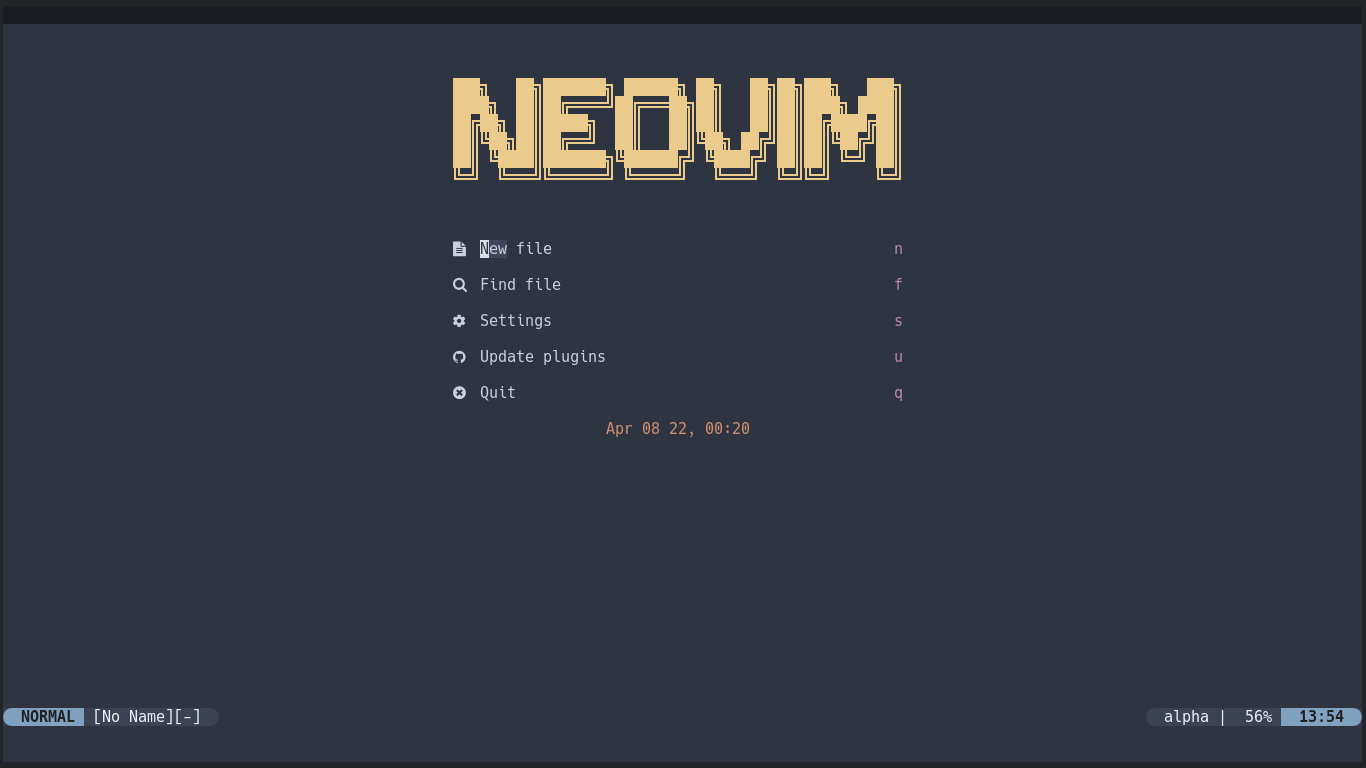
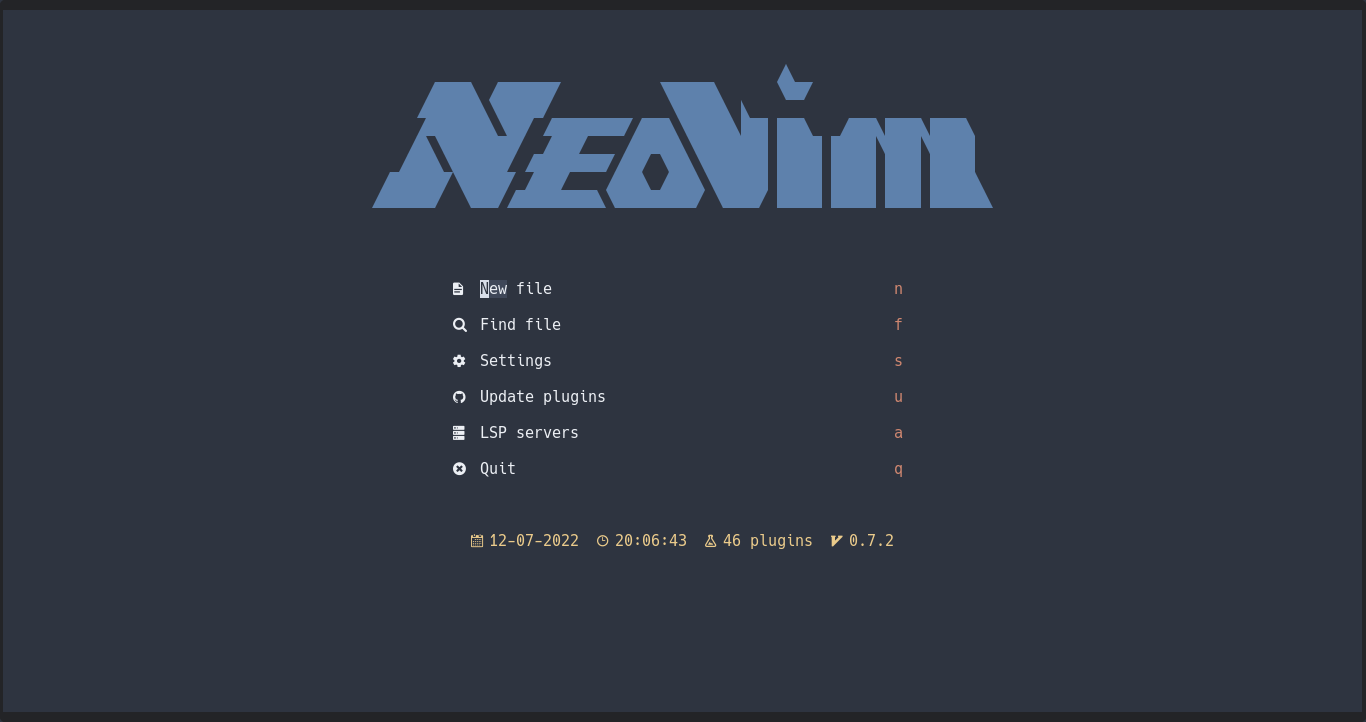
Updates neovim plugins and solves problem related to a loud beep when shutting down laptop

diff --git a/.config/nvim/.github/README.md b/.config/nvim/.github/README.md
@@ -1,4 +1,3 @@
-<h1>VS Neovim</h1>
 <p align="center">
     <img src="./screenshots/neovim-logo.png" width="60%" />
 </p>
@@ -18,6 +17,7 @@
 │   │   ├── 🌑 impatient.lua
 │   │   ├── 🌑 indent-blankline.lua
 │   │   ├── 🌑 kommentary.lua
+│   │   ├── 🌑 lspsaga.lua
 │   │   ├── 🌑 lualine.lua
 │   │   ├── 🌑 luasnip.lua
 │   │   ├── 🌑 nvim-autopairs.lua
@@ -28,7 +28,8 @@
 │   │   ├── 🌑 nvim-tree.lua
 │   │   ├── 🌑 nvim-treesitter.lua
 │   │   ├── 🌑 nvim-ts-autotag.lua
-│   │   └── 🌑 telescope.lua
+│   │   ├── 🌑 telescope.lua
+│   │   └── 🌑 which-key.lua
 │   ├── 🌑 mappings.lua
 │   ├── 🌑 plugins.lua
 │   └── 🌑 settings.lua
@@ -131,6 +132,7 @@
         <th>LSP</th>
         <td>
             <a href="https://github.com/neovim/nvim-lspconfig">nvim-lspconfig</a> <br>
+            <a href="https://github.com/glepnir/lspsaga.nvim">lspsaga</a> <br>
             <a href="https://github.com/williamboman/nvim-lsp-installer">nvim-lsp-installer</a>
         </td>
     </tr>
@@ -176,6 +178,7 @@
             <a href="https://github.com/windwp/nvim-ts-autotag">nvim-ts-autotags</a> <br>
             <a href="https://github.com/andymass/vim-matchup">vim-matchup</a> <br>
             <a href="https://github.com/tpope/vim-surround">vim-surround</a> <br>
+            <a href="https://github.com/folke/which-key.nvim">which-key</a> <br>
         </td>
     </tr>
     <tr>
@@ -214,4 +217,14 @@
 <h3>Terminal (native)</h3>
 <p align="center">
     <img src="./screenshots/neovim-terminal.png" width="80%" />
+</p>
+
+<h3>Terminal (lspsaga)</h3>
+<p align="center">
+    <img src="./screenshots/neovim-terminal-2.png" width="80%" />
+</p>
+
+<h3>Help with keybindings (which-key)</h3>
+<p align="center">
+    <img src="./screenshots/neovim-which-key.png" width="80%" />
 </p>
